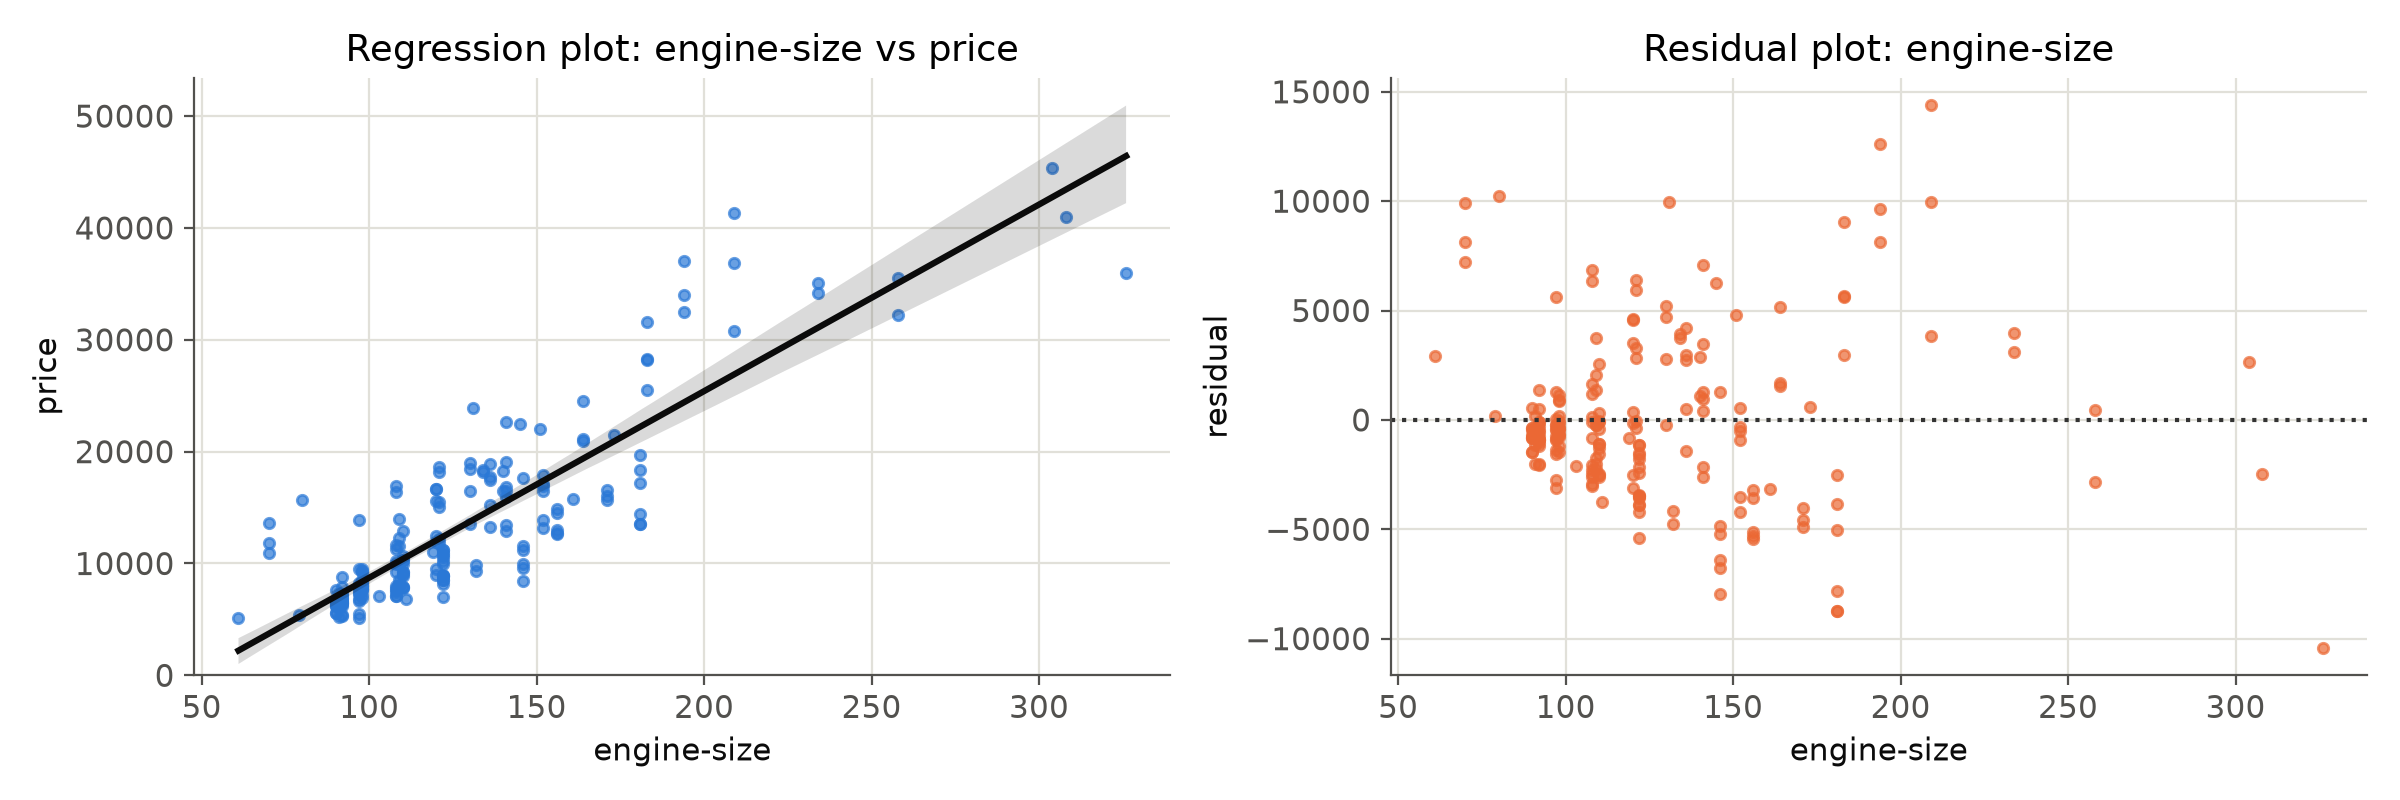
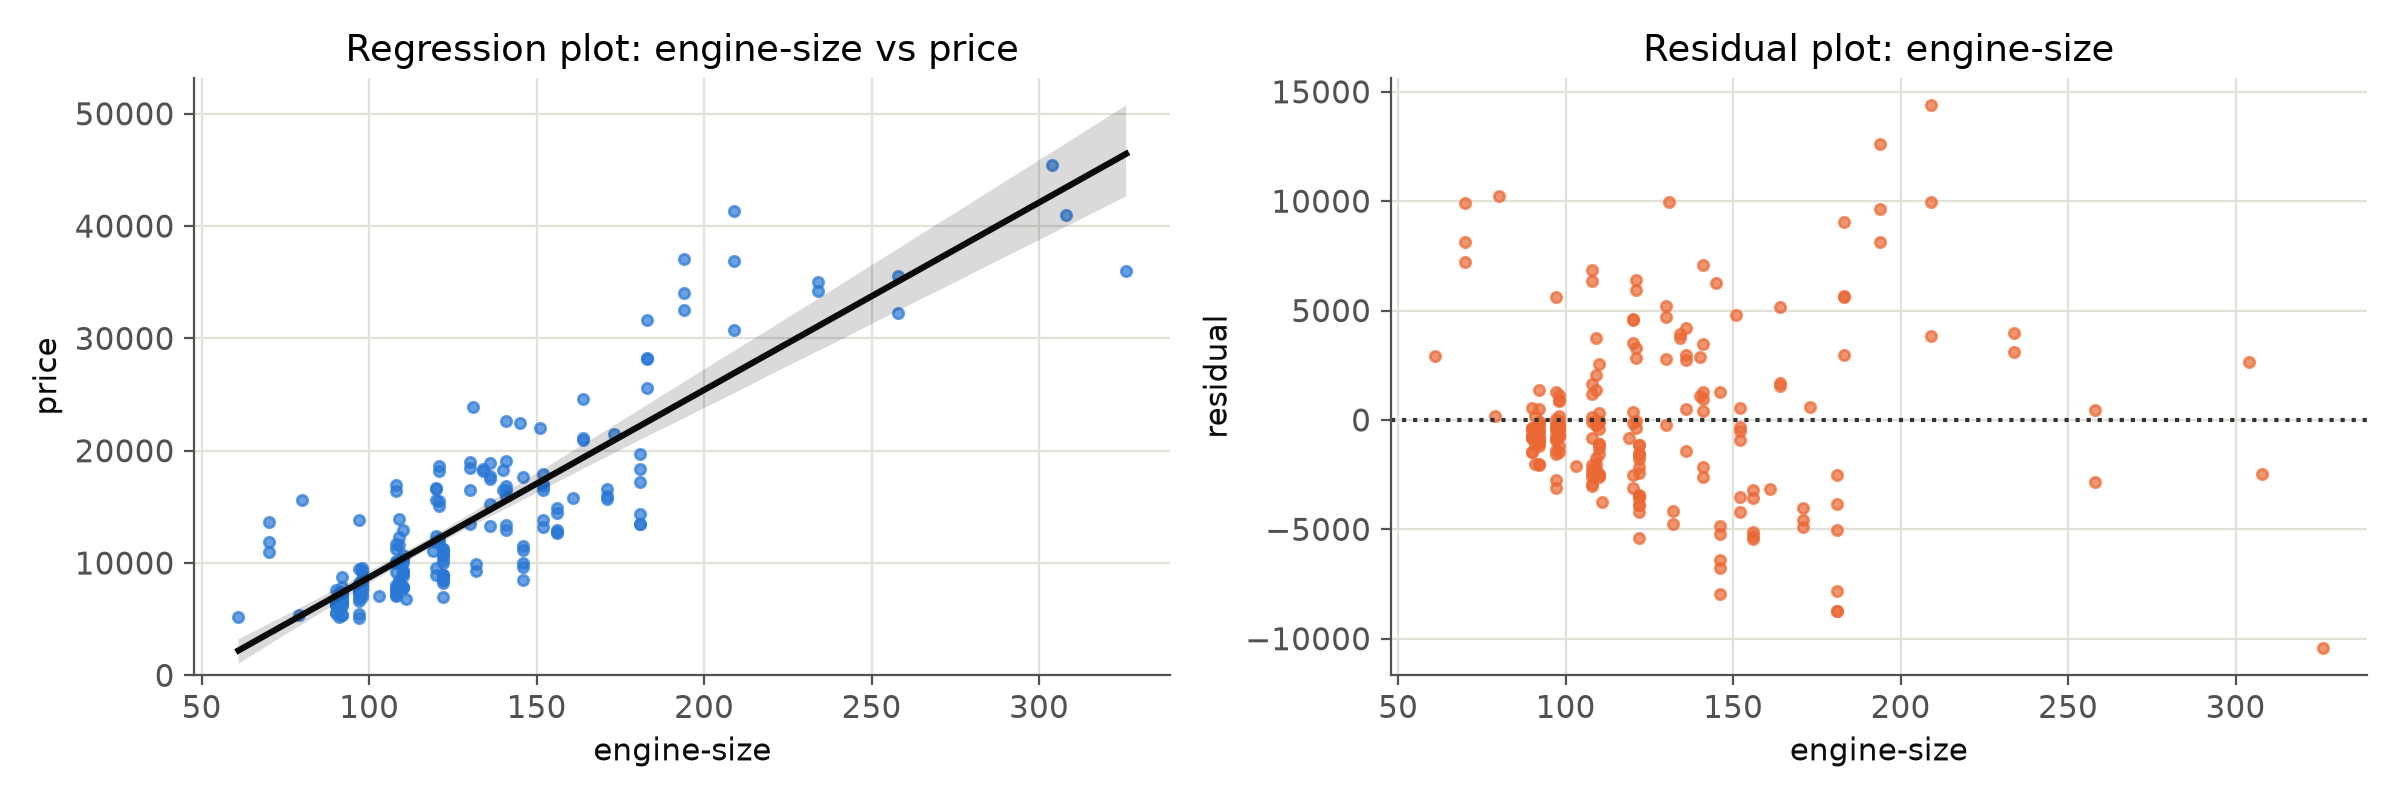
Simplify residual computation in lab3

diff --git a/lab3/model_development.py b/lab3/model_development.py
@@ -115,7 +115,7 @@ task1 = pd.DataFrame([
     evaluate("SLR engine-size", LinearRegression(), df[["engine-size"]]),
     evaluate("SLR highway-mpg", LinearRegression(), df[["highway-mpg"]]),
 ])
-resid = Y - Yhat
+resid = Y.sub(Yhat)
 print("residual mean =", round(resid.mean(), 6), " residual std =", round(resid.std(), 2))
 print("share of |residual| > 5000:", round((resid.abs() > 5000).mean(), 4))
 print(task1)
@@ -170,7 +170,8 @@ pipe11.fit(df[["highway-mpg"]], y)
 yhat_pipe = pipe11.predict(df[["highway-mpg"]])
 print("Pipeline deg 11 R^2 =", r2_score(y, yhat_pipe))
 print("Pipeline deg 11 MSE =", mean_squared_error(y, yhat_pipe))
-print("max |polyfit - pipeline| =", np.abs(p11(x) - yhat_pipe).max().round(2))
+gap = np.abs(np.subtract(p11(x), yhat_pipe))
+print("max |polyfit vs pipeline| =", gap.max().round(2), " at highway-mpg =", x[gap.argmax()])
 
 def plot_polly(ax, model, xs, ys, name, color):
     x_new = np.linspace(15, 55, 300)
